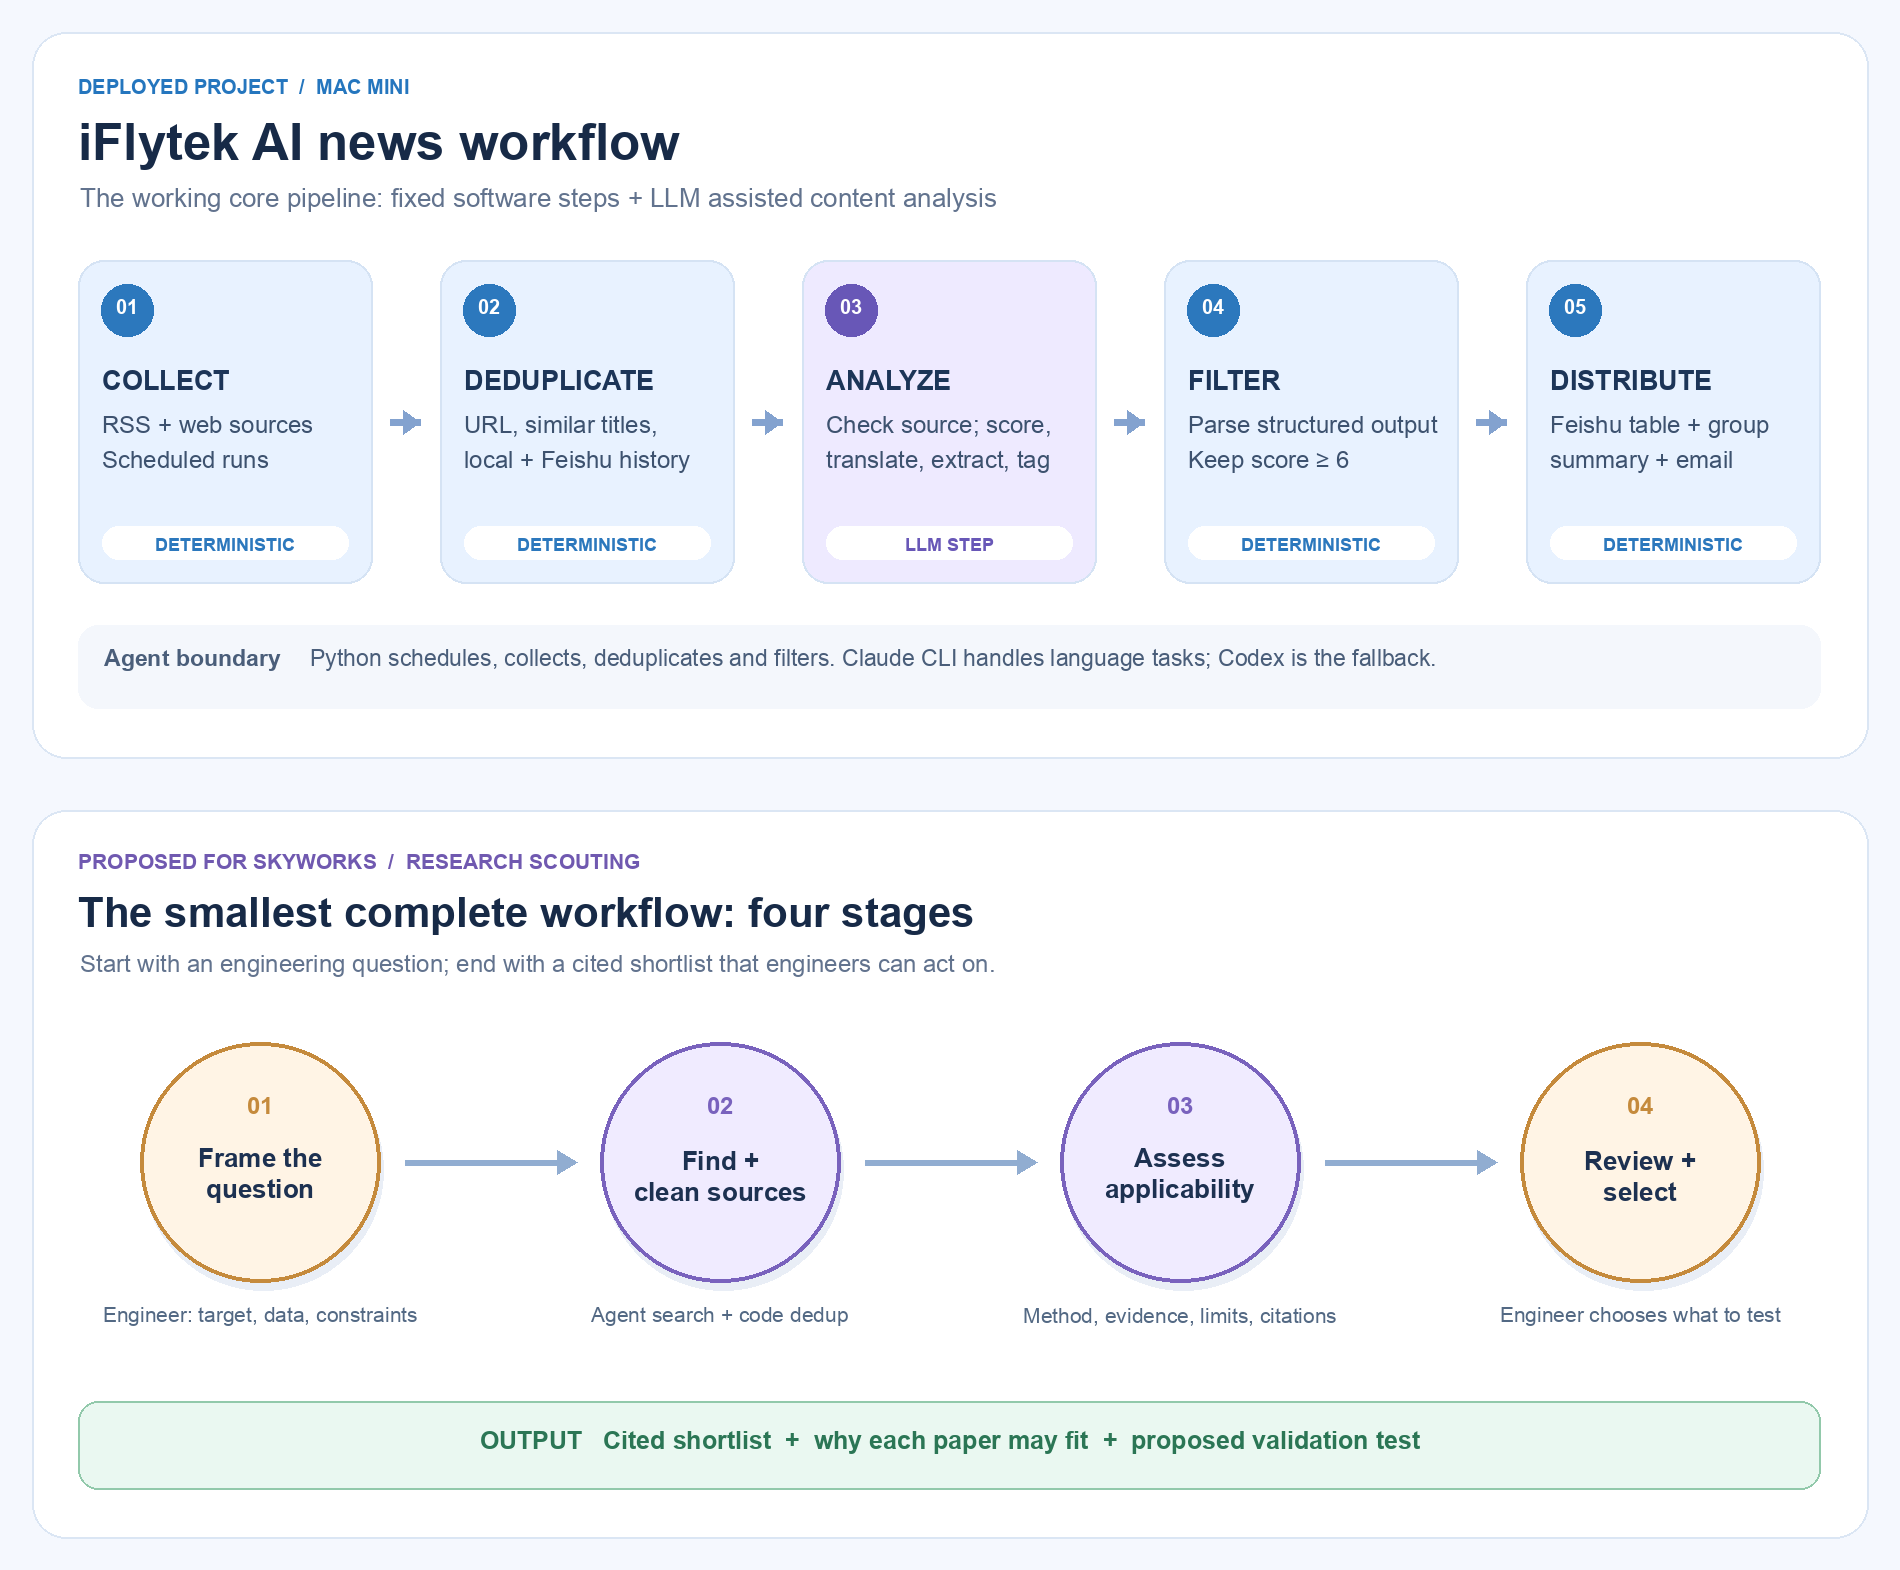
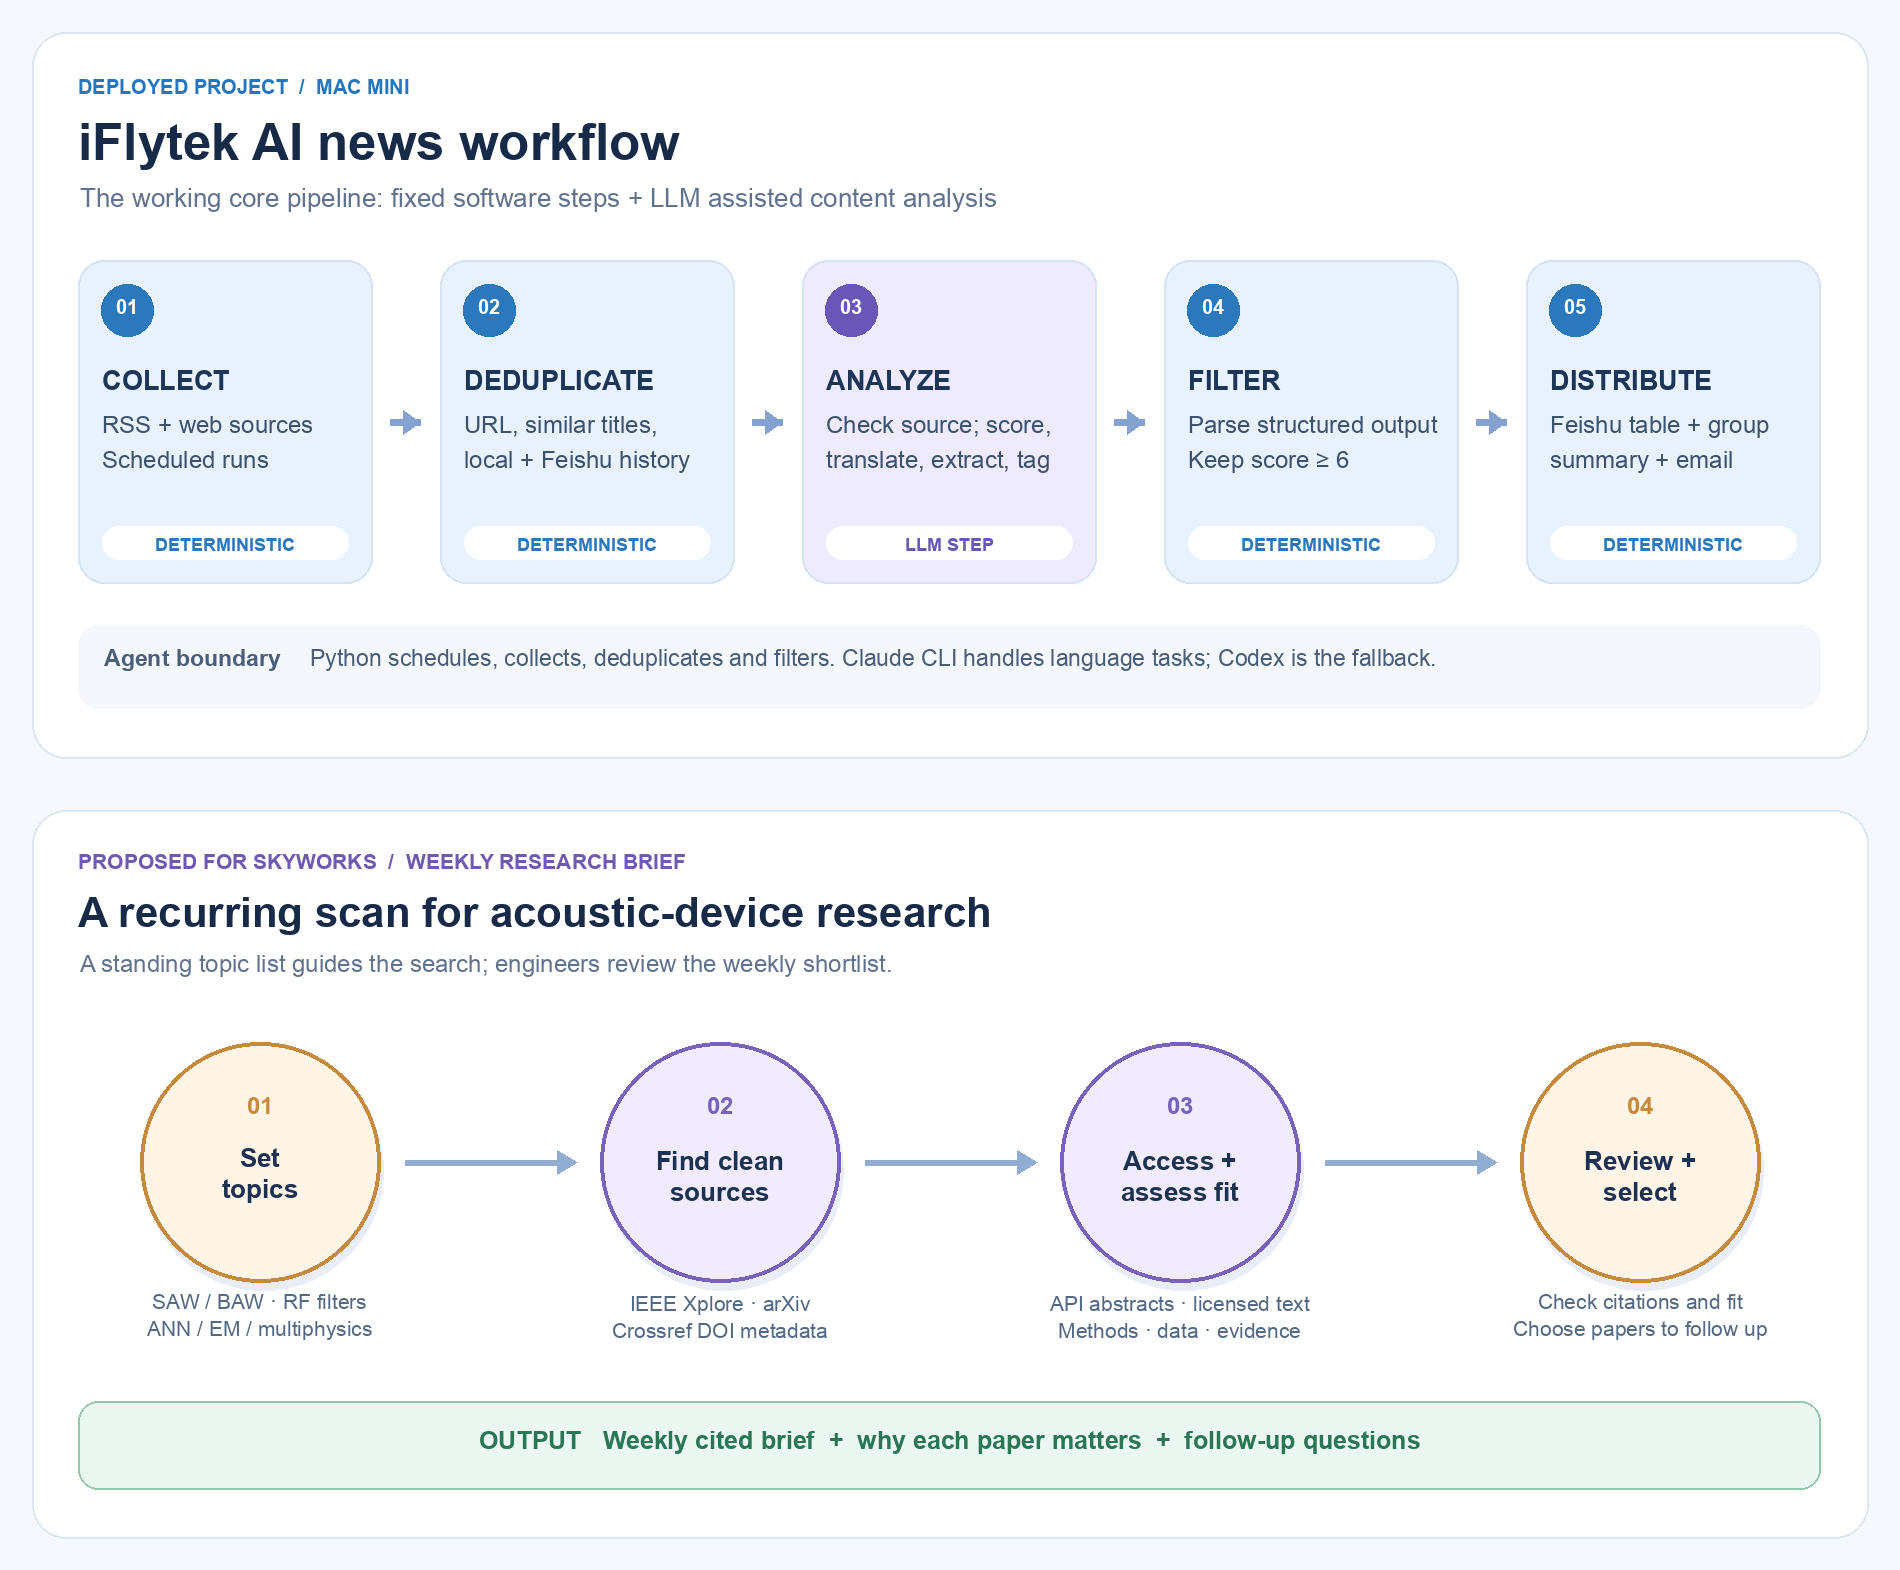
Refine Skyworks transfer as weekly literature brief
Agent: codex

diff --git a/project-llm-recommendation.html b/project-llm-recommendation.html
@@ -38,9 +38,9 @@
             <section class="focus-full">
                 <figure class="focus-figure">
                     <a href="readme_plots/iflytek-news-to-skyworks-workflow.png" target="_blank" rel="noopener" aria-label="Open the iFlytek and Skyworks workflow diagram at full size">
-                        <img src="readme_plots/iflytek-news-to-skyworks-workflow.png" alt="Two-row workflow. Deployed at iFlytek: collect AI news, deduplicate, analyze with an LLM, apply a score threshold, and distribute a brief. Proposed for Skyworks: frame an engineering question, find and clean papers, assess applicability, then have an engineer review and select tests.">
+                        <img src="readme_plots/iflytek-news-to-skyworks-workflow.png" alt="Two-row workflow. Deployed at iFlytek: collect AI news, deduplicate, analyze with an LLM, apply a score threshold, and distribute a brief. Proposed weekly research scan for Skyworks: set acoustic-device topics, find credible paper sources, access and assess relevant research, then review and select papers for a cited brief.">
                     </a>
-                    <figcaption>Top: the deployed iFlytek news workflow. Bottom: a proposed research scouting workflow for Skyworks. Click to view the full-size diagram.</figcaption>
+                    <figcaption>Top: the deployed iFlytek news workflow. Bottom: a proposed weekly research brief for Skyworks. Click to view the full-size diagram.</figcaption>
                 </figure>
             </section>
 
@@ -50,10 +50,10 @@
                     <ul>
                         <li>Built and deployed a scheduled Python pipeline for iFlytek's Strategy Department. It collects AI news from RSS and web sources, then removes duplicate URLs, similar titles, and items already in local or Feishu history.</li>
                         <li>Used Claude Code, with Codex as a fallback, for source review, relevance scoring, title translation, evidence-based summaries, and classification. Python handles scheduling, deduplication, structured-output parsing, score filtering, and delivery.</li>
-                        <li>Automated a daily brief that had taken about one hour of manual work each day; shortened weekly reporting from two hours to 30 minutes. The briefs reached more than 200 readers across the business.</li>
+                        <li>Automated a daily brief that had taken about one hour of manual work each day; shortened weekly reporting from two hours to 30 minutes. The briefs reached more than 200 readers across the business. For the weekly leadership brief, I checked the AI draft's sources, translations, and priorities before sharing it.</li>
                     </ul>
                     <h3>How I would adapt it for Skyworks</h3>
-                    <p>Starting from an engineering question defined by the team, an agent could search accessible RF and acoustic-device papers, organize candidates, and extract methods, supporting evidence, and limitations with citations. Device engineers would review the shortlist and decide which ideas merit a validation test. This lower workflow is a proposal, not a system I claim to have deployed at Skyworks.</p>
+                    <p>I would build a recurring literature scan around topics the Acoustic Device Group cares about, such as SAW and BAW resonators, RF filter performance, ANN surrogate models, and electromagnetic or multiphysics modeling. The agent could search IEEE Xplore and arXiv, use Crossref DOI metadata to organize and deduplicate papers, then screen abstracts through approved APIs. For promising papers, it would assess methods, data, validation evidence, and limitations from open or properly licensed full text where available. Engineers would check the citations and select items for a concise, cited weekly brief with follow-up questions. This is a proposed workflow, not a system I claim to have deployed at Skyworks.</p>
                 </div>
             </section>
 
